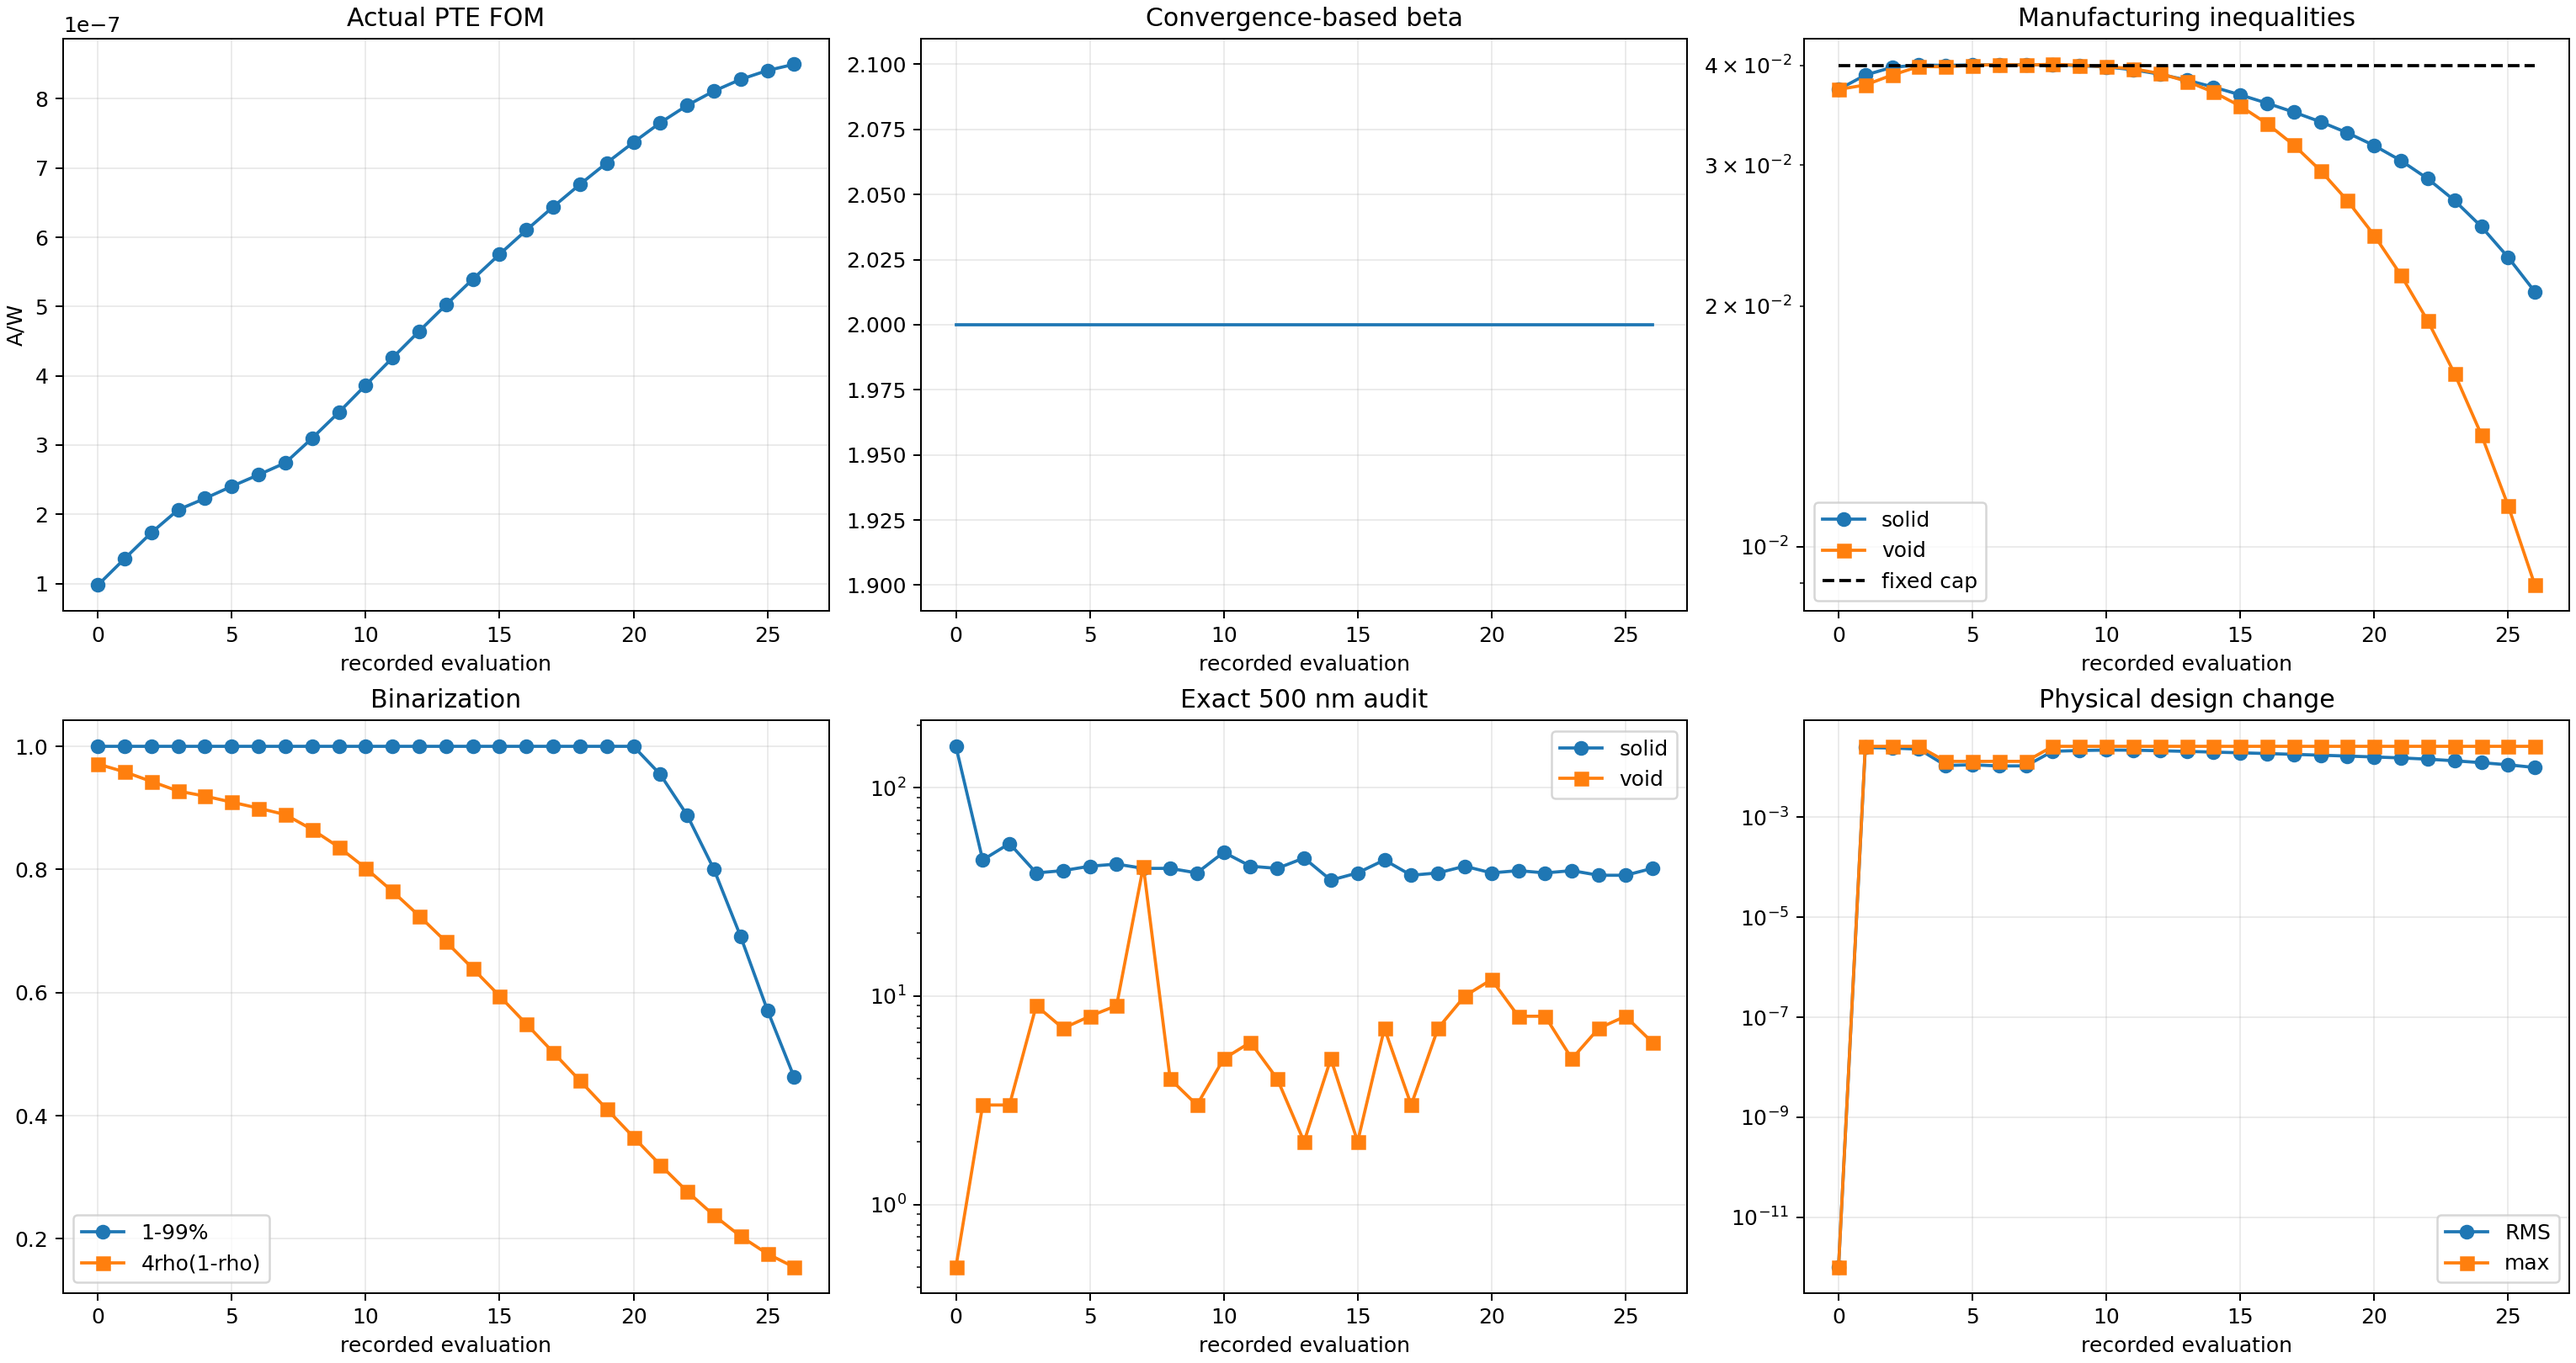
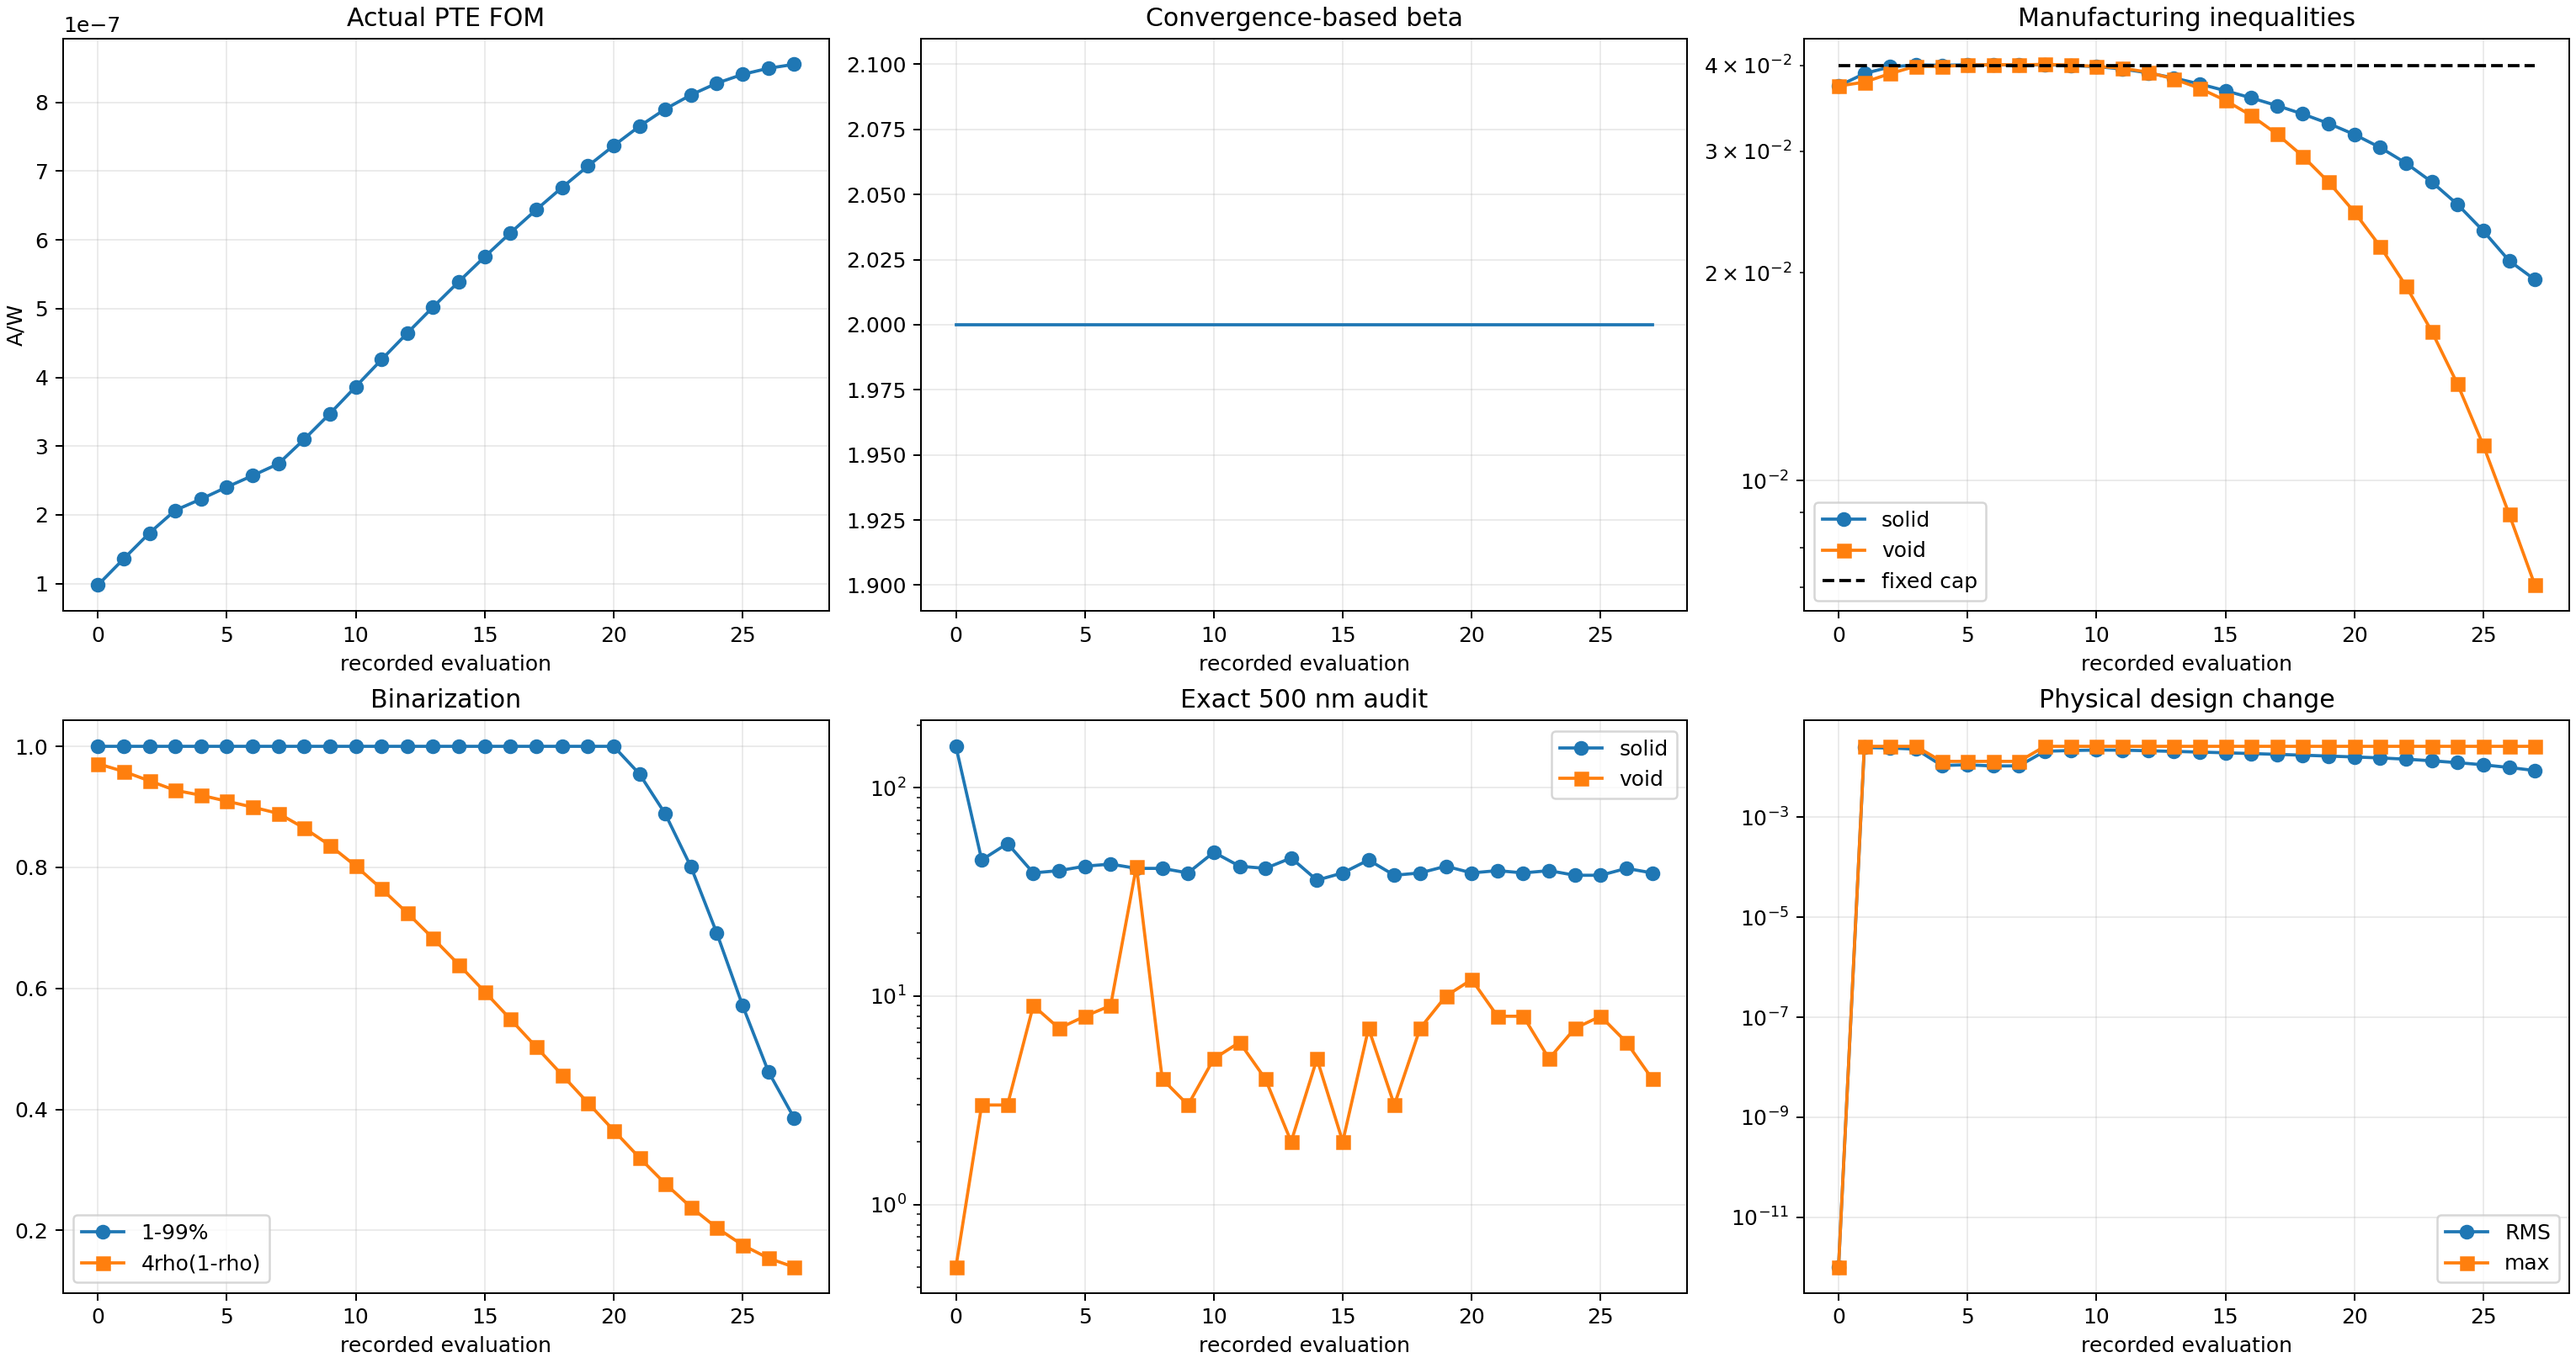
Record Run 003 run003_b002_s027_g027_accepted_mma

diff --git a/photothermal_pte/optimization_runs/run_003_gaussian10_w8p5_current_max_converged/results/OPTIMIZATION_REPORT.md b/photothermal_pte/optimization_runs/run_003_gaussian10_w8p5_current_max_converged/results/OPTIMIZATION_REPORT.md
@@ -2,10 +2,10 @@
 
 Status: `RUNNING_CONVERGENCE_BASED_CONSTRAINED_BETA_CONTINUATION`
 
-Current stage: beta=2, accepted stage iteration=26, global iteration=26.
+Current stage: beta=2, accepted stage iteration=27, global iteration=27.
 
-Actual FOM: `8.497590376256e-07 A/W`. Fixed-cap solid/void constraints: `2.083565e-02` / `8.947003e-03` with cap `4.000000e-02`.
+Actual FOM: `8.555162556665e-07 A/W`. Fixed-cap solid/void constraints: `1.955931e-02` / `7.057731e-03` with cap `4.000000e-02`.
 
-Exact 500 nm bad cells: solid `41`, void `6`. Stage convergence: `False` (recent FOM/density changes have not plateaued).
+Exact 500 nm bad cells: solid `39`, void `4`. Stage convergence: `False` (recent FOM/density changes have not plateaued).
 
 Beta is promoted only after fixed-inequality feasibility and a four-update FOM/design plateau; it is never promoted after one nominal update.
